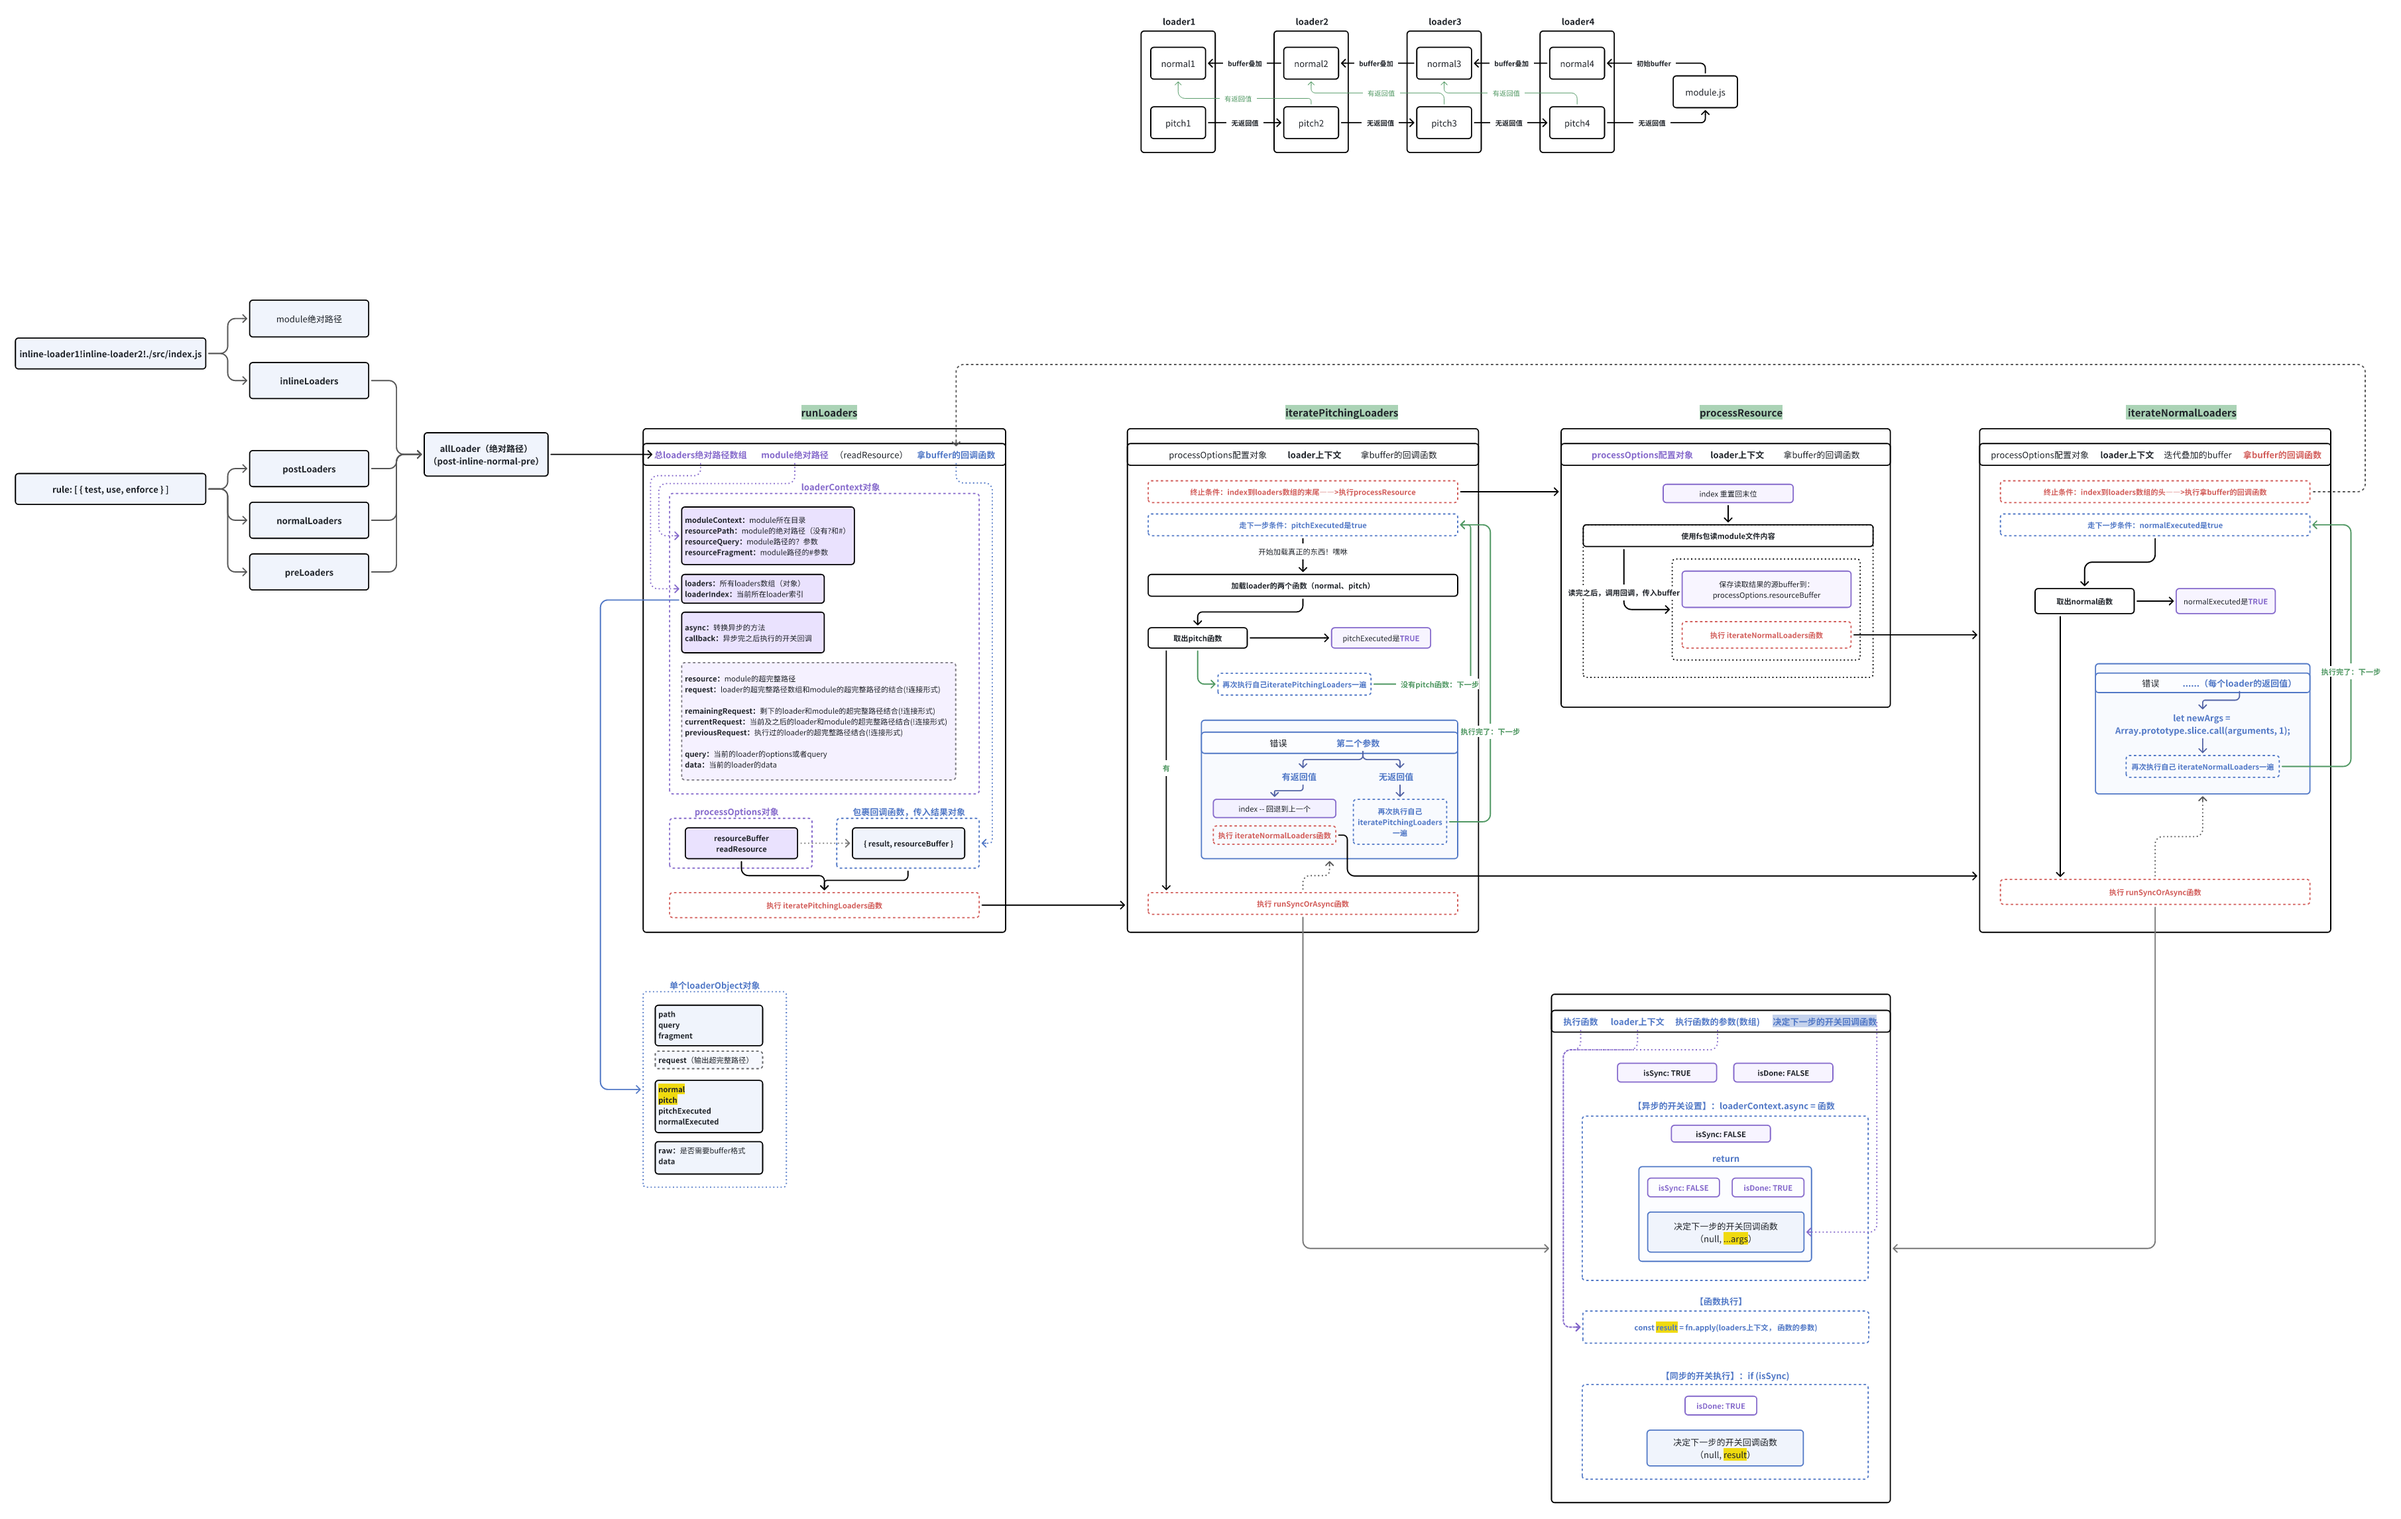
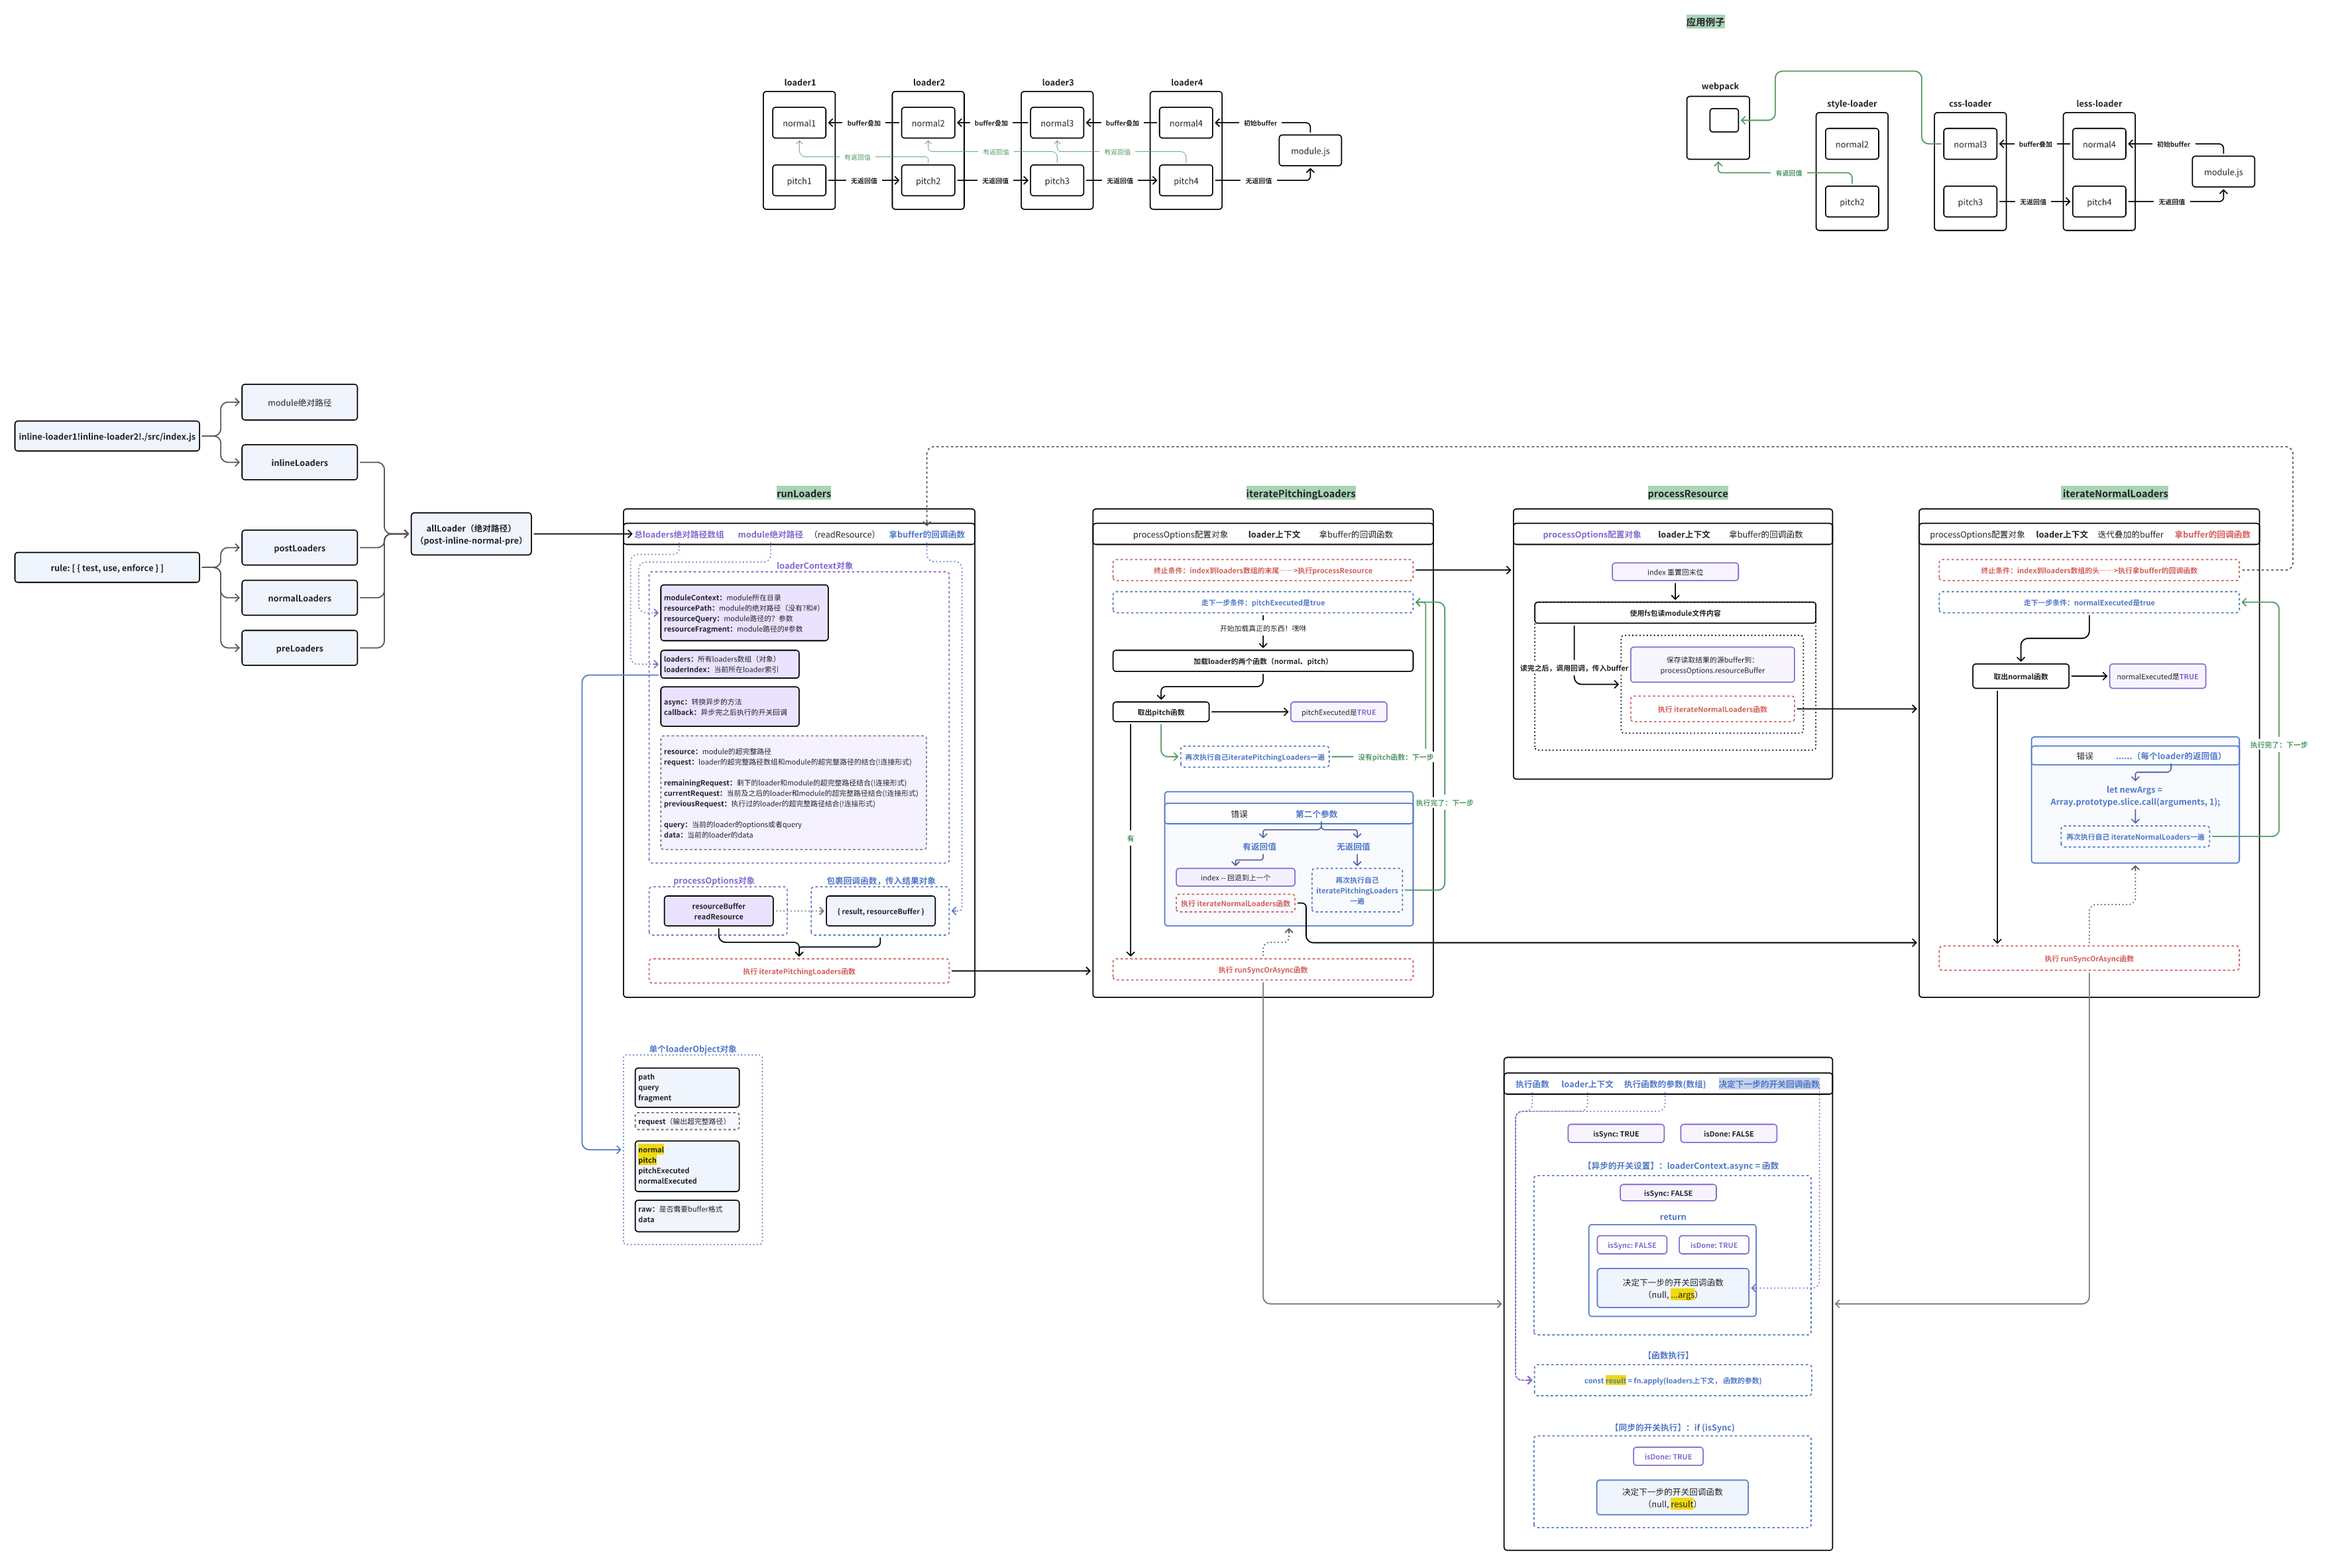
fix:20241105-loader-application

diff --git a/Engineering/Webpack/Loader/loaders/basin/async-loader.js b/Engineering/Webpack/Loader/loaders/basin/async-loader.js
@@ -17,3 +17,4 @@ normal.pitch = function () {
 }
 
 module.exports = normal
+

diff --git a/Engineering/Webpack/summary.md b/Engineering/Webpack/summary.md
@@ -1656,11 +1656,29 @@ module.exports = normal
 
 
 
+- 问题：
+  - pitch函数什么时候使用？
+  - 只有最左边的loader的normal函数才能写module.export = xxxxx，如果我想在倒数第二个loader也写module.exports = xxxxx，怎么办？？（也就是连用最左边两个loader的导出结果）
+- 解决：看style-loader和less-loader
+
 
 
 
 ### 常用的loader
-#### source-map loader
+
+
+- 配置补充，写在module.exports外部大变量
+
+```
+// 这个相当于指定【去哪里找loader】，先去node_modules，找不到再去loaders
+resolveLoader: {
+  modules: ['node_modules', path.join(__dirname, 'loaders')]
+},
+```
+
+
+#### JS文件
+##### source-map loader
 
 - 问题：被import或require导入的代码，呈现的是压缩且转化后的样子，调试的时候我想看到源码
 - 解决：source-map-loader
@@ -1696,7 +1714,7 @@ module.exports = {
 
 
 
-#### babel-loader
+##### babel-loader
 
 - 核心是babel.transform(source, options)方法
 
@@ -1725,4 +1743,354 @@ function normal(source) {
 module.exports = normal
 ```
 
+
+
+
+
+#### IMG文件（png、jpg、gif、bmp...）
+
+- 配置
+
+```
+{
+    test: /\.(jpg|png|gif|bmp)$/,
+    use: [
+      {
+        loader: 'url-loader2',
+        options: {
+          limit: 8 * 1024
+        }
+      }
+    ]
+},
+```
+
+
+
+##### file-loader
+
+主要干了两件事：
+
+1. 把源文件加到输出目录dist里面
+2. 生成一个hash文件名，导出去
+
+```
+// file-loader2.js
+
+// let { getOptions, interpolateName } = require('loader-utils')
+const path = require('path')
+
+function getOptions(loaderContext) {
+  // query的逻辑是 loader.options || loader.query
+  // 这里的核心目标是保证导出的query是一个对象
+  const query = loaderContext.query;
+  if (typeof query === 'string' && query !== '') {
+    return parseQuery(loaderContext.query)
+  }
+  if (!query || typeof query !== 'object') {
+    return null
+  }
+  return query;
+}
+
+function parseQuery(query) {
+  return query.split('&').reduce((accum, item) => {
+    if (item.startsWith('?')) {
+      item = item.replace(/^\?+/, '')
+    }
+    let [key, value] = item.split('=');
+    accum[key] = value;
+    return accum;
+  }, {})
+}
+
+function interpolateName(loaderContext, name, options) {
+  let filename = name || '[hash].[ext]';
+
+  // 拿到原来的扩展名
+  let ext = path.extname(loaderContext.resourcePath).slice(1);
+  // 根据内容生成一个hash
+  let hash = require('crypto').createHash('md5').update(options.content).digest('hex')
+
+  // 用真实值替换占位符
+  filename = filename.replace(/\[hash\]/ig, hash).replace(/\[ext\]/ig, ext);
+
+  return filename;
+
+}
+
+function loader(content) {
+
+  // 拿到配置的选项
+  let options = getOptions(this) || {}
+  // 拿到改过的hash文件名
+  let filename = interpolateName(this, options.filename || '[hash].[ext]', {
+    content
+  })
+
+  // 向输出文件夹（dist）里面加新的文件
+  // 目的是可以在main.js里面直接引用当前文件夹下面的xx图片
+  this.emitFile(filename, content)
+  
+  // 相当于把图片变成了一个js文件，可以导出他的名字
+  // 我在require('./xx.png')的时候，可以直接拿到exports对象里面的default的值，也就是图片文件名
+  return `export default ${JSON.stringify(filename)}`;
+}
+
+// 加载的是二进制，需要让content是buffer
+loader.raw = true;
+module.exports = loader
+```
+
+##### url-loader
+
+file-loader的升级版：
+
+1. 小于xx值的文件可以直接转成base64字符，导出去
+2. 大于xx值的文件，调用file-loader的函数处理
+
+```
+// url-loader2.js
+
+const { getOptions } = require('loader-utils')
+const mime = require('mime')
+
+function loader(content) {
+
+  // 拿到配置的选项
+  let options = getOptions(this) || {};
+  let { limit, fallback = 'file-loader' } = options;
+
+  // 把limit转化为数字类型
+  if (limit) {
+    limit = parseInt(limit, 10);
+  }
+
+  // 拿到目标文件的【媒体类型】
+  const mimeType = mime.getType(this.resourcePath); // .jpg变为image/jpeg
+
+  // 如果没有配置limit但是直接用了url-loader，或者图片的大小小于limit的大小
+  // 转成base64字符
+  if (!limit || content.length < limit) {
+    let base64 = `data:${mimeType};base64,${content.toString('base64')}`
+
+    // loader返回export default只能有一个，且一般是最后一个，经过转换的代码不能有多个export default
+    // 二进制文件的导出一般也不会用export default
+    return `export default ${JSON.stringify(base64)}`
+  } else {
+
+    // 如果大于limit，调用file-loader的函数，拿到返回值
+    let fileLoader = require(fallback || 'file-loader')
+    return fileLoader.call(this, content);
+  }
+}
+
+// 加载的是二进制，需要让content是buffer
+loader.raw = true;
+module.exports = loader
+```
+
+
+#### CSS文件（css、less、sass...）
+
+- 配置
+  - less和css不能结合在一起写（因为：css经过less的转化，路径会出现问题）
+
+```
+{
+    test: /\.less$/,
+    use: [
+      {
+        loader: 'style-loader2', // 把css文本变成style标签，插入到页面中
+      },
+      {
+        loader: 'css-loader2', // 处理css的@import和url()
+      },
+      {
+        loader: 'less-loader2', // 把less编译成css
+      }
+    ]
+},
+{
+    test: /\.css$/,
+    use: [
+      {
+        loader: 'style-loader2', // 把css文本变成style标签，插入到页面中
+      },
+      {
+        loader: 'css-loader2', // 处理css的@import和url()
+      },
+    ]
+},
+```
+
+
+
+##### style-loader
+
+主要干了：（css放到html里面）把css内容写入style标签，把style标签加到head
+
+
+- 普通写法：写在normal上
+  - 只有styleLoader才是最后一个，其他都不能写module.exports = xxx，其他传过来都是单纯的内容值。
+
+```
+// style-loader2.js
+
+let loaderUtils = require('loader-utils')
+
+function loader(source) {
+  let script = `
+    let style = document.createElement('style');
+    style.innerHTML = ${JSON.stringify(source)};
+    document.head.appendChild(style);
+  `
+  return script;
+}
+
+module.exports = loader
+```
+
+
+- 同时利用最左侧两个loader的写法：写在pitch上
+  - 使用require把后面执行的（remainingRequest）所有loader的累加返回值拿到
+  - 倒数第二个loader需要写module.exports = xxx，这个loader的返回值给到【已经在webpack里面】的【styleLoader的pitch函数的返回值】
+  
+```
+loader.pitch = function (remainingRequest, previousRequest, data) {
+
+  // 此时的remainingRequest是 ../loaders/css-loader2.js!../loaders/less-loader2.js!./index.less
+  // 加上感叹号的是只要inlineloader，直接用当前的这个command，不读取rule的配置项了
+
+  // stringifyRequest把绝对路径转为相对路径
+  // 因为webpack是相对根目录找文件的，所以要转换
+  
+  let script = `
+    let style = document.createElement('style');
+    style.innerHTML = require(${loaderUtils.stringifyRequest(this, '!!' + remainingRequest)});
+    document.head.appendChild(style);
+  `
+
+  // 接下来：
+  // script给webpack，把脚本转成抽象语法树，然后找依赖，也就是找import或者require
+  // 继续解析内容"!!../loaders/css-loader2.js!../loaders/less-loader2.js!./index.less"
+  // 要解析index.less这文件，找行内loader，以及其他需要这个文件（less）的loader（写在rules里面的）
+  // 因为写了！！，所以只要行内loader
+  // 开始使用css-loader和less-loader，执行他们的pitch（没有），然后读less内容，然后执行less-loader和css-loader的normal
+
+  return script;
+}
+```
+
+
+
+##### css-loader
+
+主要干了：（处理css的@import和url()）
+
+1. 针对每一个module，执行插件
+  1. 遍历里面的@import语句，保存路径到外部，以便替换为require
+  2. 遍历里面的url()语句，直接替换路径为require
+2. module操作完，执行then回调函数
+  1. 把保存好的@import语句全部替换为require
+  2. 整合自己module的所有import内容和本身的css
+3. 开关函数执行去到下一个：实际上是给到styleLoader的pitch函数，因为cssLoader自己module.export导出了
+
+```
+let postcss = require('postcss'); // 用来处理css，基于css语法树
+let loaderUtils = require('loader-utils');
+let tokenizer = require('css-selector-tokenizer');
+
+function loader(cssString) {
+
+  // 转化为异步执行
+  let callback = this.async();
+
+  const cssPlugin = (options) => {
+    return (cssRoot) => {
+
+      // 遍历每个css文件的规则，找到所有的@import()语句，保存路径到外部
+      cssRoot.walkAtRules(/^import$/i, rule => {
+        rule.remove(); // 删除这个rule，保证下次遍历不会拿到并push同样的值
+        options.imports.push(rule.params.slice(1, -1)) // params的形式为“‘./global.css’”，需要把首尾两个双引号去掉
+      })
+
+      // 遍历每个css文件的规则，找到所有的url()，改为require形式（改完后覆盖原来的值）
+      cssRoot.walkDecls(decl => {
+        let values = tokenizer.parseValues(decl.value);
+        values.nodes.forEach(item => {
+          item.nodes.forEach(item2 => {
+            if(item2.type === 'url') {
+              item2.url = "`+require(" + loaderUtils.stringifyRequest(this, item2.url) + ").default+`";
+            }
+          })
+        })
+        decl.value = tokenizer.stringifyValues(values)
+      })
+    }
+  }
+
+  // 保存所有顶部import的路径
+  let options = {
+    imports: [], // ["./global.css"]
+  };
+
+  // 源代码（每个css文件）会经过流水线的一个个插件（每个css文件都去执行一遍插件）
+  // 构造流水线
+  let pipeLine = postcss([cssPlugin(options)])
+
+  // 每个css文件处理完所有插件之后，整合所有内容构造本css文件的完整版本
+  pipeLine.process(cssString).then(result => {
+
+    // 对于顶部的@import，转化成require去拿文件
+    // 且通过inlineLoader的方式先过一遍cssLoader的内容，再得到结果写入module.exports，然后返回值给到父css
+    let importCSS = options.imports.map(url => {
+      return "`+require(" + loaderUtils.stringifyRequest(this, '!!css-loader2!' + url) + ")+`";
+    })
+
+    // 把顶部@import的内容和自己的css内容合并起来，返回值给stylePitch的返回值，然后给webpack，不用经过styleLoader的normal
+    let output = "module.exports = `" + importCSS + "\r\n" + result.css + "`"
+
+    // 开关调用，去下一个
+    callback(null, output)
+  })
+}
+
+// 为什么每个require()前后都要加上`+
+// 因为原本的其他部分都是字符串，require是一个表达式
+// 通过【结束上一个字符串】+【连接表达式】+【开始下一个字符串】实现，相当于：
+// module.export = ` 字符串 `+ require() +` 字符串 `
+// （上一行再loader里面输出也是个字符串，在webpack那里会去实现）
+
+module.exports = loader
+```
+
+
+##### less-loader
+
+主要干了：（把less编译成css）直接使用less库的render方法把less解析变成css
+
+```
+let less = require('less')
+
+function loader(source) {
+
+  // 转化成异步函数
+  let callback = this.async();
+  less.render(source, { filename: this.resource }, (err, output) => {
+
+    // 直接使用less库的render方法进行解析
+    const css = output.css
+
+    // 是倒数第二个loader，中间没有css-loader，直接用写module.exports
+    // let code = `module.exports = ${JSON.stringify(css)}`
+
+    // 不是倒数第二个loader，解析完之后直接传入去到下一个
+    callback(err, css)
+  })
+
+}
+
+module.exports = loader
+```
 
